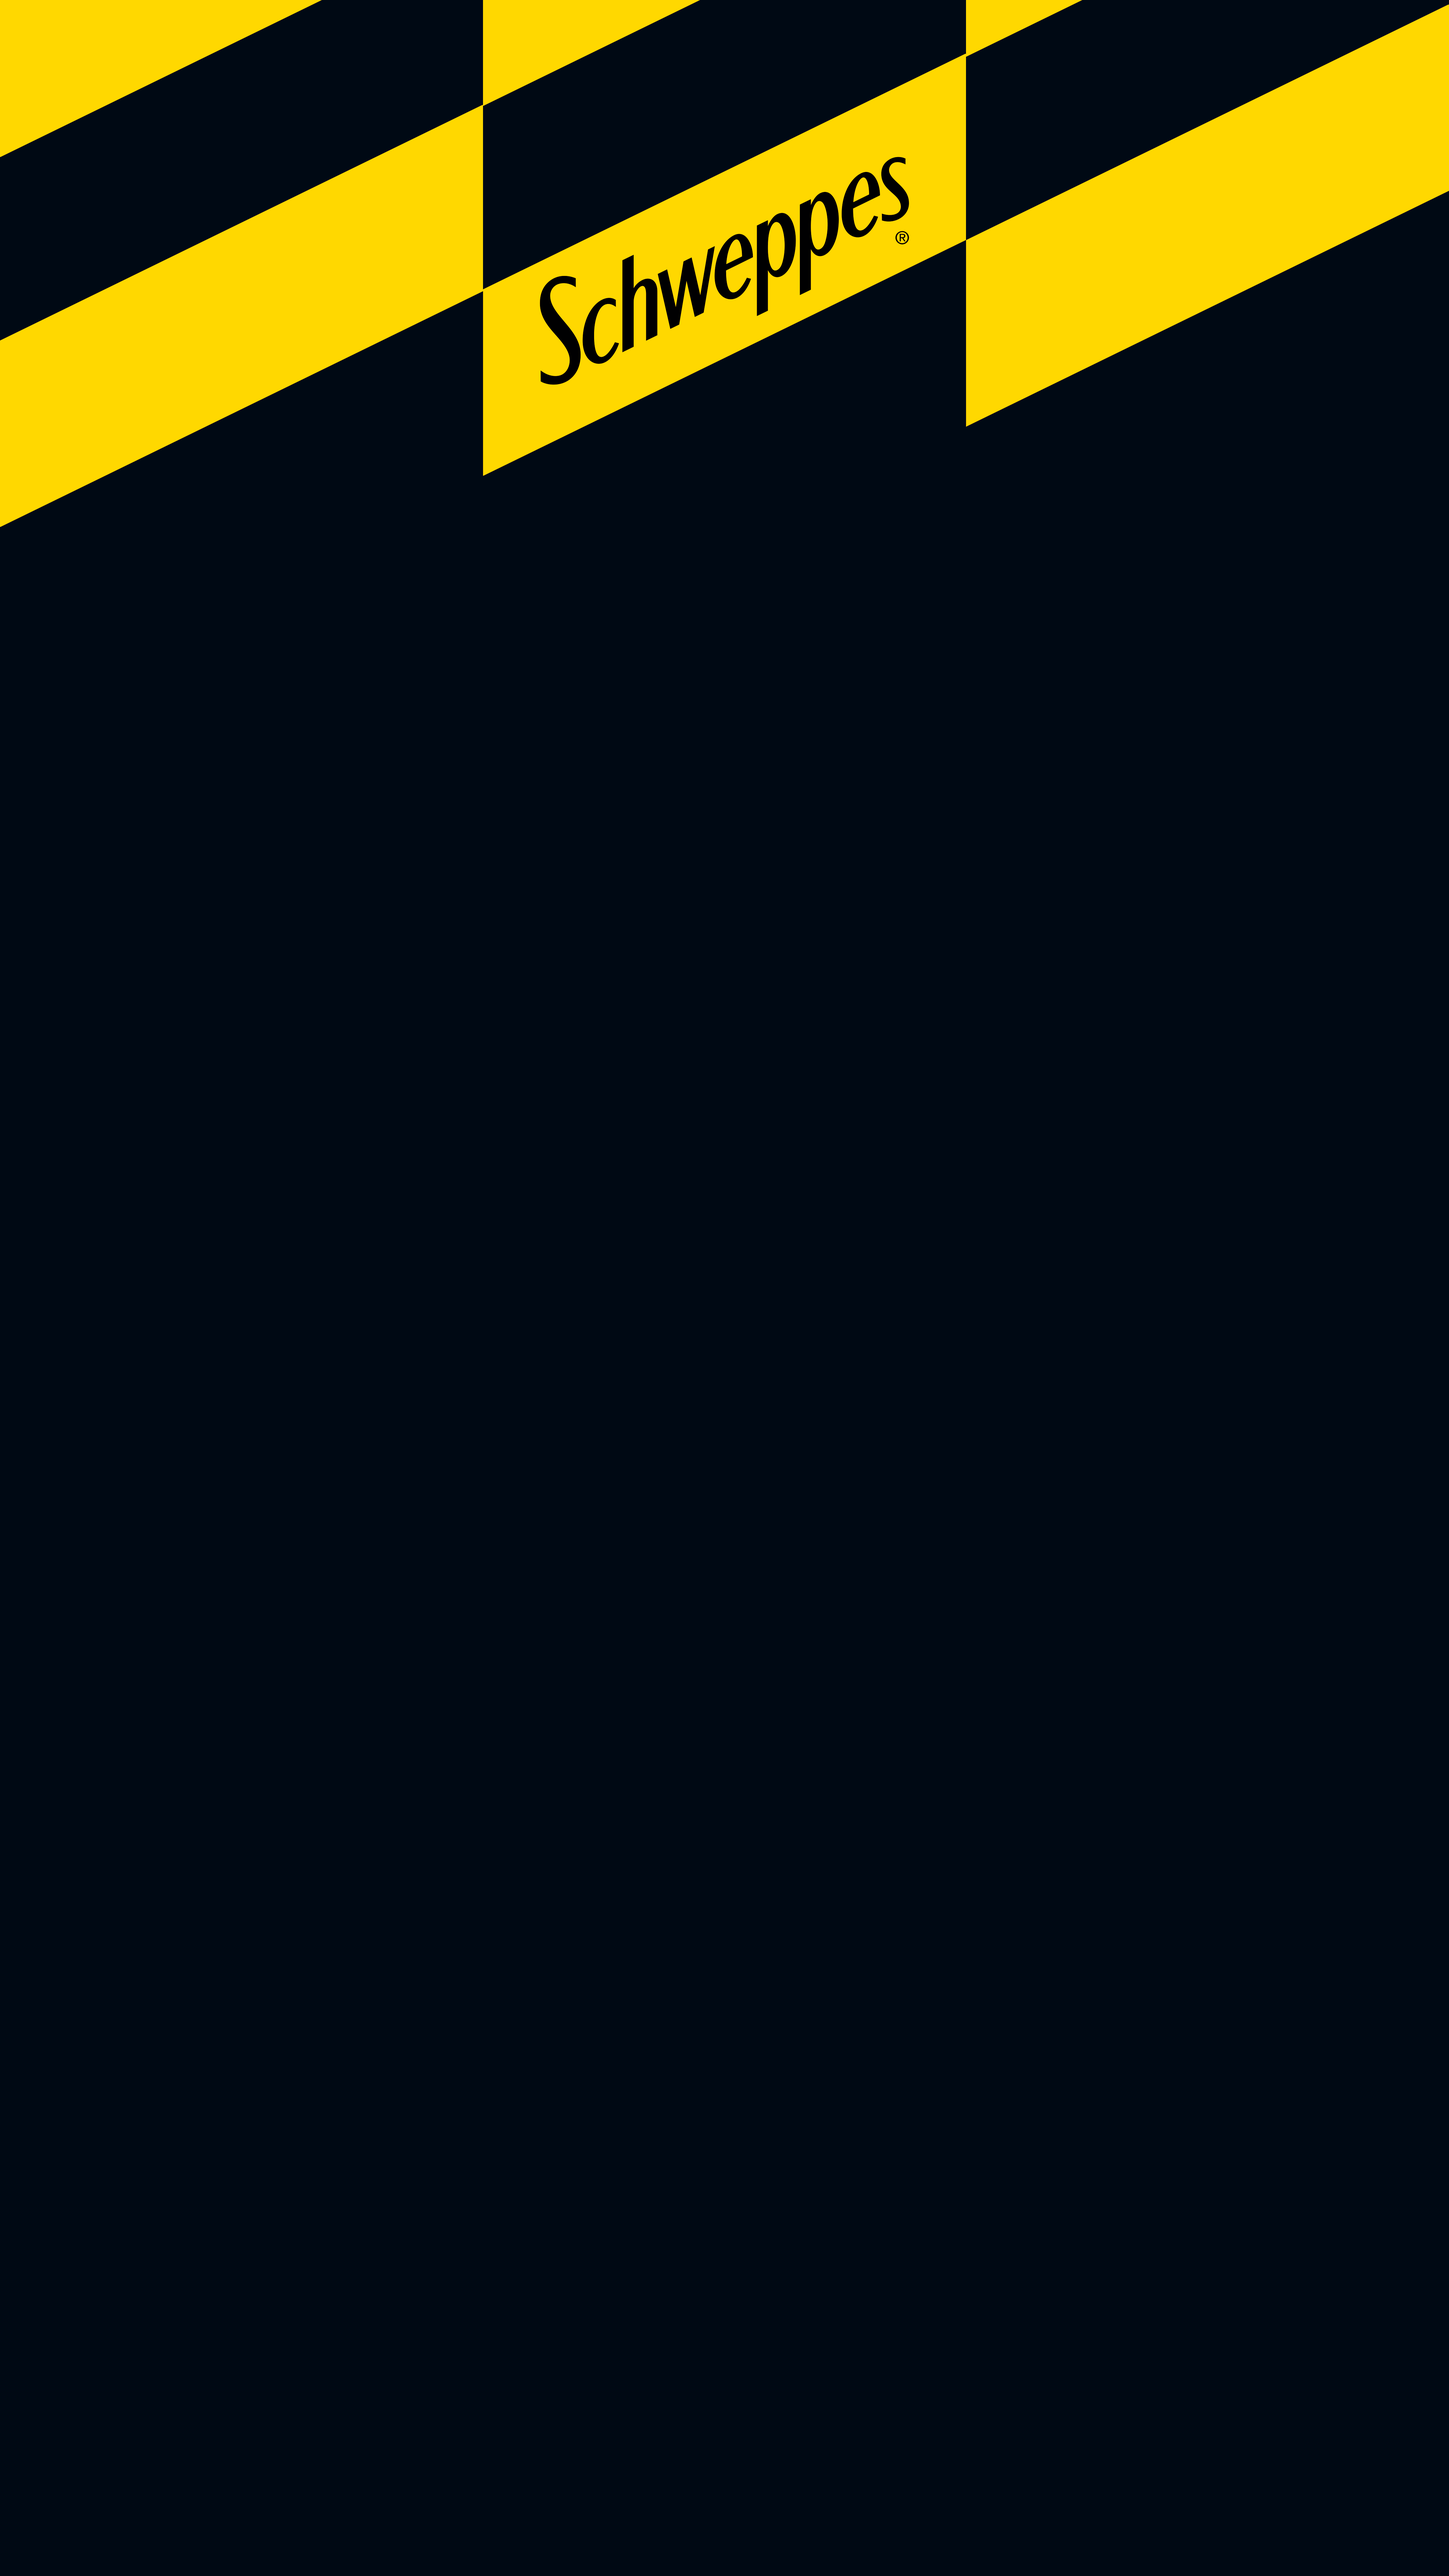
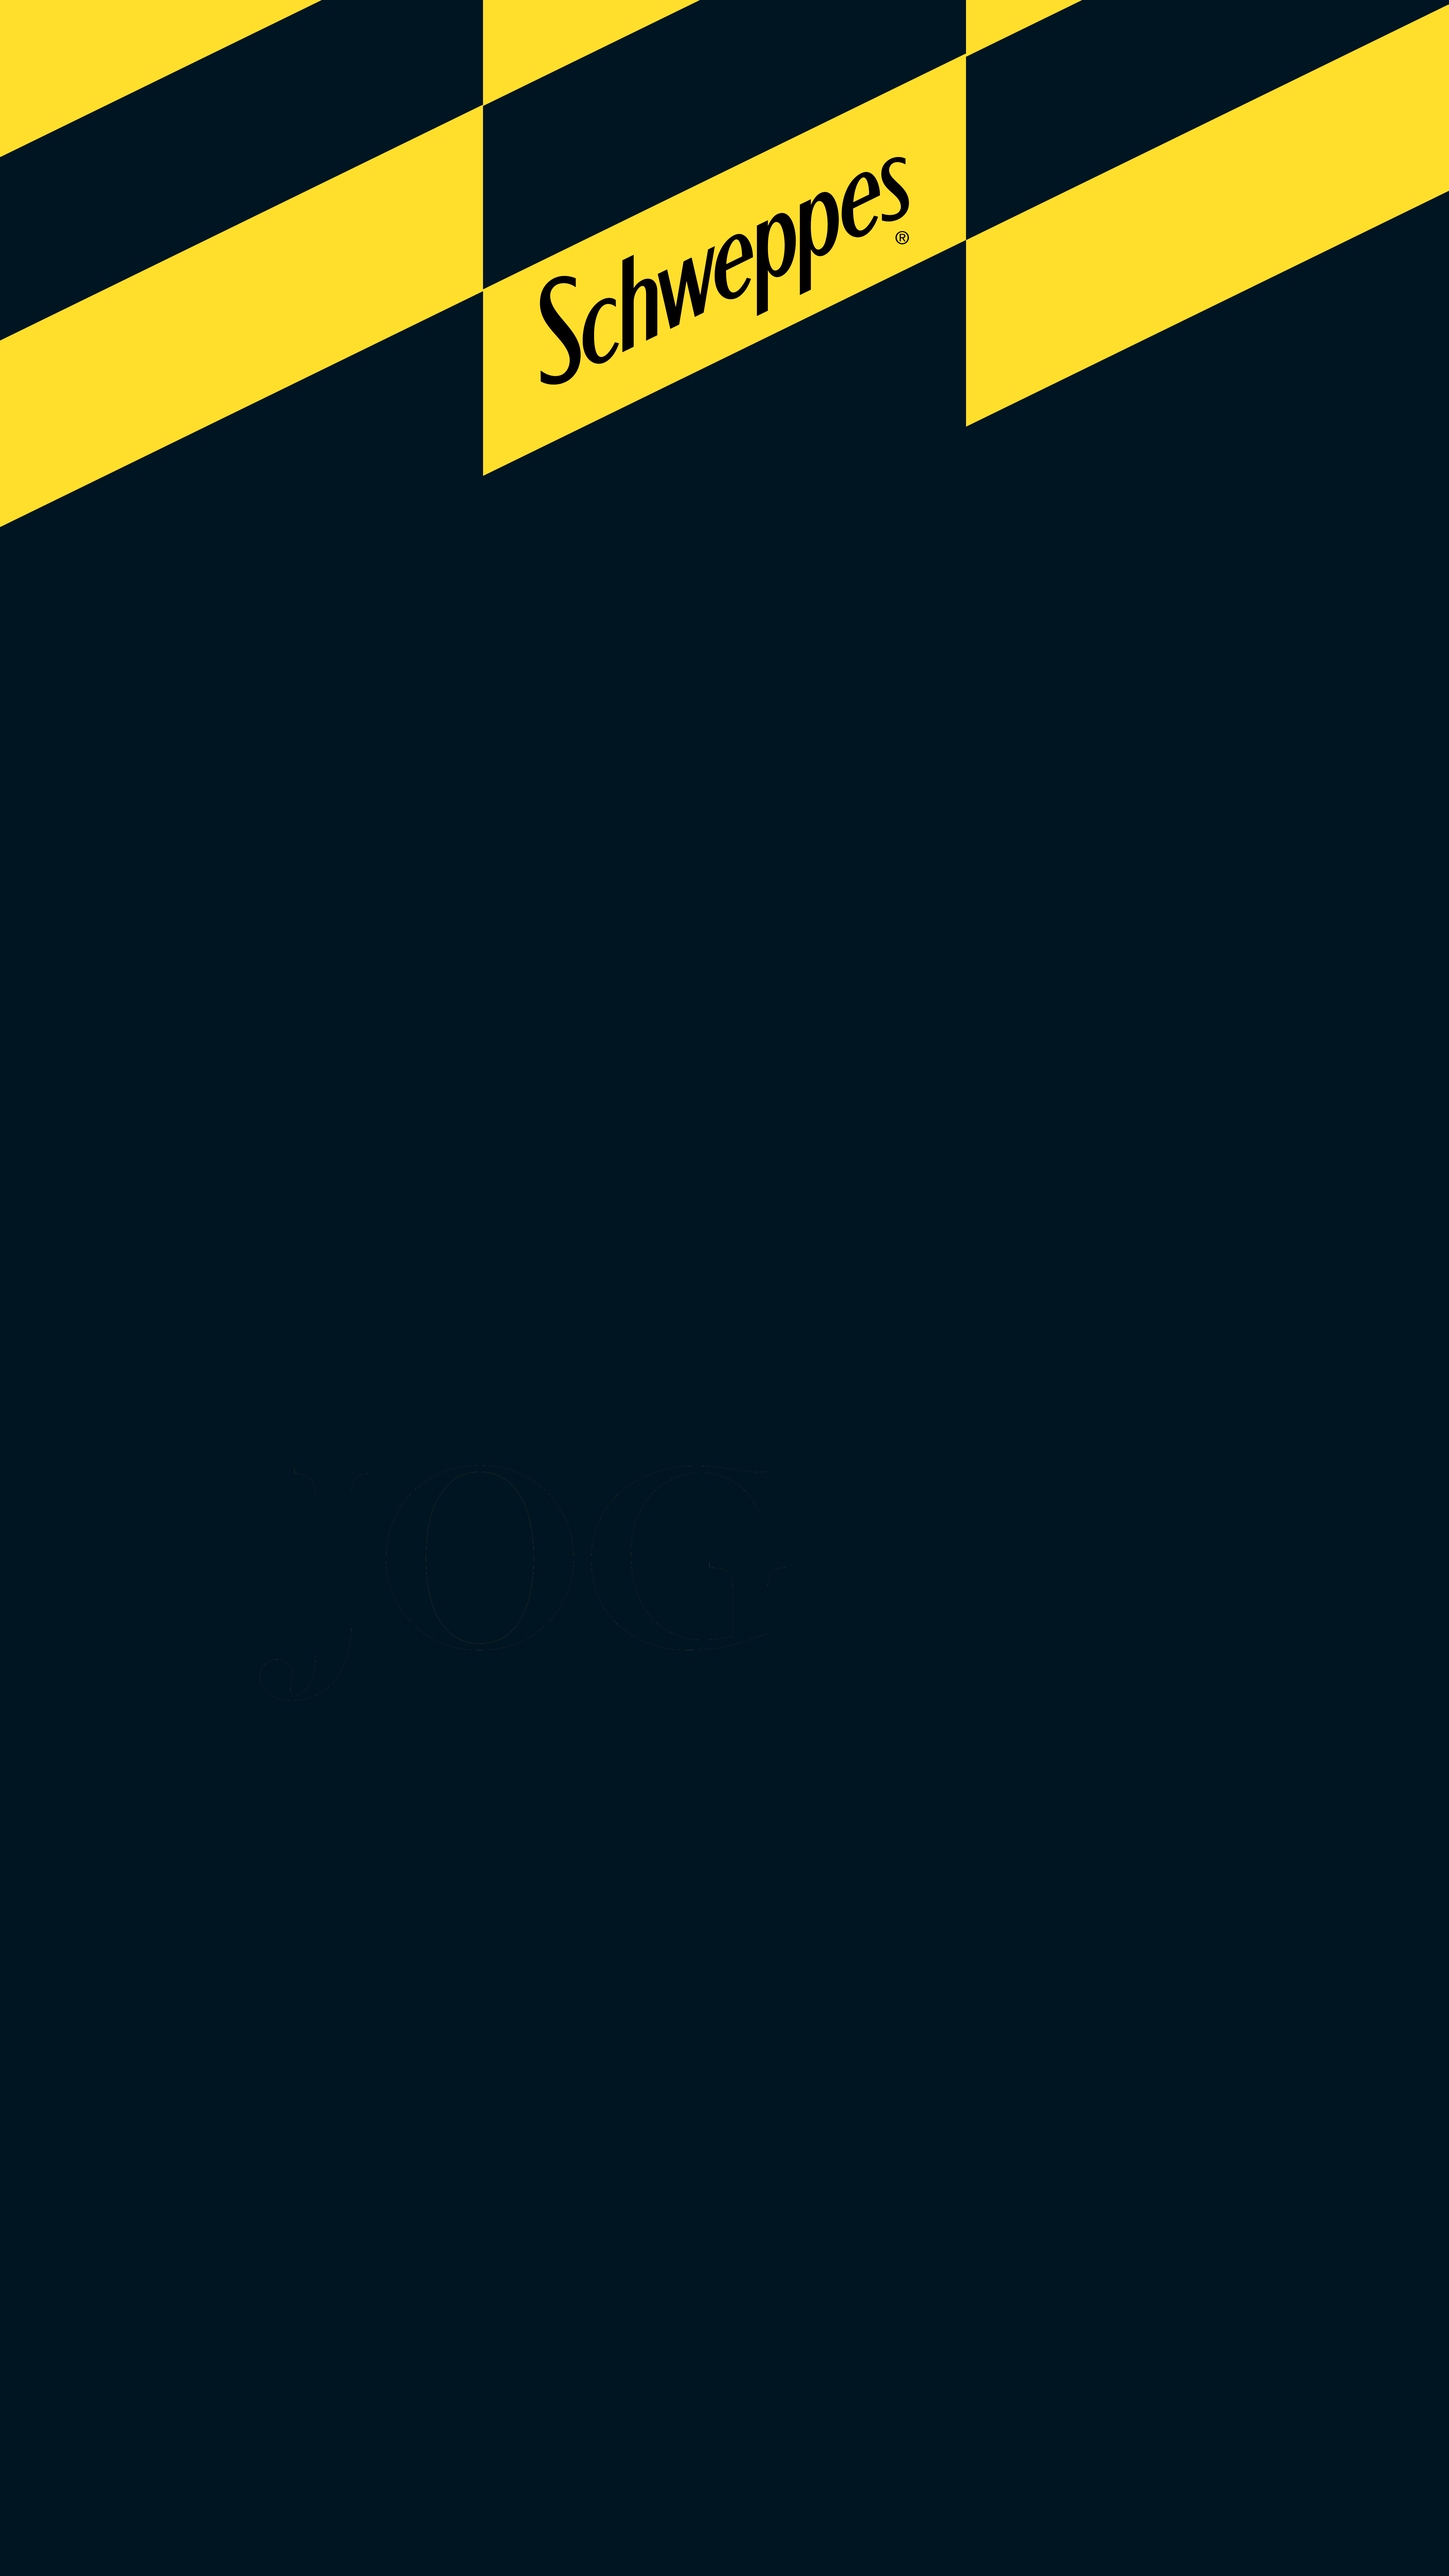
ajustes

Changed region(s): [[0.0, 0.0, 1.0, 0.2188], [0.0, 0.0, 0.2178, 0.0625]]

diff --git a/src/pages/QuizScreen.tsx b/src/pages/QuizScreen.tsx
@@ -55,11 +55,34 @@ const QuizScreen: React.FC = () => {
   const shuffleArray = (array: any[]) => array.sort(() => Math.random() - 0.5);
 
   const filteredItems = React.useMemo(() => {
-    const selected = items
-      .filter(item => correctAnswers.includes(item.label))
-      .concat(items.filter(item => !correctAnswers.includes(item.label)).slice(0, 12 - correctAnswers.length));
+    // Base para os itens que estão corretos
+    let selected = items.filter((item) => correctAnswers.includes(item.label));
+  
+    // Lista de itens a serem excluídos
+    const excludedLabels: string[] = []; 
+  
+    // Regras específicas para cada receita
+    if (selectedRecipe === 'CAMPARI TONIC') {
+      excludedLabels.push('100ML SCHWEPPES TONICA');
+    } else if (selectedRecipe === 'GIN TÔNICA') {
+      excludedLabels.push('150ML SCHWEPPES TONICA');
+    } else if (['SKYY MOSCOW MULLE', 'JB CITRUS', 'MONSTER GIN', 'APEROL'].includes(selectedRecipe)) {
+      // Excluir aleatoriamente um dos dois itens
+      const randomChoice = Math.random() > 0.5 ? '150ML SCHWEPPES TONICA' : '100ML SCHWEPPES TONICA';
+      excludedLabels.push(randomChoice);
+    }
+  
+    // Filtra os itens corretos e exclui os itens na lista de exclusão
+    const additionalItems = items.filter(
+      (item) =>
+        !correctAnswers.includes(item.label) && !excludedLabels.includes(item.label)
+    );
+  
+    // Mistura os itens corretos com os adicionais para completar 12
+    selected = selected.concat(additionalItems.slice(0, 12 - selected.length));
     return shuffleArray(selected);
-  }, [correctAnswers]);
+  }, [correctAnswers, selectedRecipe]);
+  
 
   const handleImageClick = (label: string) => {
     setSelectedItems((prev) => {

diff --git a/src/css/JogarScreen.css b/src/css/JogarScreen.css
@@ -16,7 +16,7 @@
     border-radius: 0.375rem; /* Borda arredondada */
     padding: 2rem 6rem; /* Aumentado o espaçamento interno para mais distância do texto à borda */
     box-shadow: 0px 4px 6px rgba(31, 31, 31, 0.1); /* Sombra padrão Bootstrap */
-    background-color: #000914; /* Cor de fundo do botão */
+    background-color: #001522; /* Cor de fundo do botão */
     color: #ffc107; /* Cor do texto */
     border: 4px solid #ffc107; /* Borda visível */
     position: absolute; /* Posicionamento absoluto */

diff --git a/src/css/EscolherScreen.css b/src/css/EscolherScreen.css
@@ -71,7 +71,7 @@
     border-radius: 0.375rem; /* Borda arredondada */
     padding: 2rem 6rem; /* Aumentado o espaçamento interno para mais distância do texto à borda */
     box-shadow: 0px 4px 6px rgba(31, 31, 31, 0.1); /* Sombra padrão Bootstrap */
-    background-color: #000914; /* Cor de fundo do botão */
+    background-color: #001522; /* Cor de fundo do botão */
     color: #ffc107; /* Cor do texto */
     border: 4px solid #ffc107; /* Borda visível */
     transition: all 0.2s ease-in-out;

diff --git a/src/css/QuizScreen.css b/src/css/QuizScreen.css
@@ -24,7 +24,7 @@
   border-radius: 0.375rem; /* Padrão do Bootstrap */
   padding: 1rem 3rem; /* Espaçamento interno similar ao Bootstrap */
   box-shadow: 0px 4px 6px rgba(31, 31, 31, 0.1); /* Sombra padrão Bootstrap */
-  background-color: #000914;
+  background-color: #001522;
   color: #ffc107;
   border: 4px solid #ffc107; /* Borda visível com cor amarela */
 }

diff --git a/src/css/DestravaScreen.css b/src/css/DestravaScreen.css
@@ -5,7 +5,6 @@
   background-position: center;
   aspect-ratio: 9 / 16;
   padding-top: 100%;
-  padding-bottom: 5%;
   cursor: pointer;
   font-family: 'Monday';
   align-items: center;
@@ -30,7 +29,6 @@
 .drink-image {
   max-width: 600px;
   height: auto;
-  margin-top: 3rem;
 }
 
 

diff --git a/src/pages/EscolherScreen.tsx b/src/pages/EscolherScreen.tsx
@@ -41,7 +41,7 @@ const EscolherScreen: React.FC = () => {
         onClick={handleConfirm} 
         disabled={!selectedDrink} // Desativa o botão se nenhuma receita for selecionada
       >
-        Confirmar
+        CONFIRMAR
       </button>
     </div>
   );
